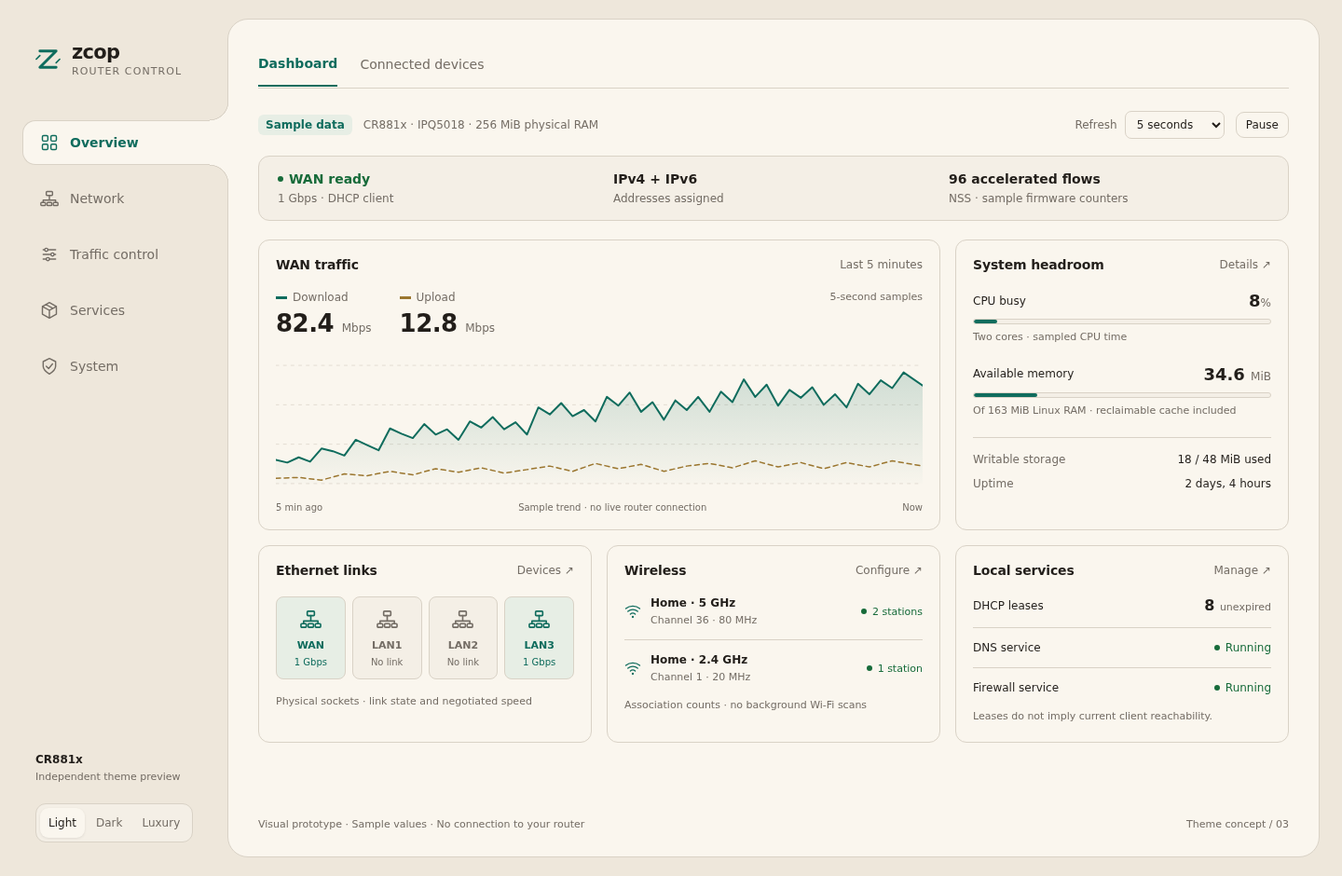
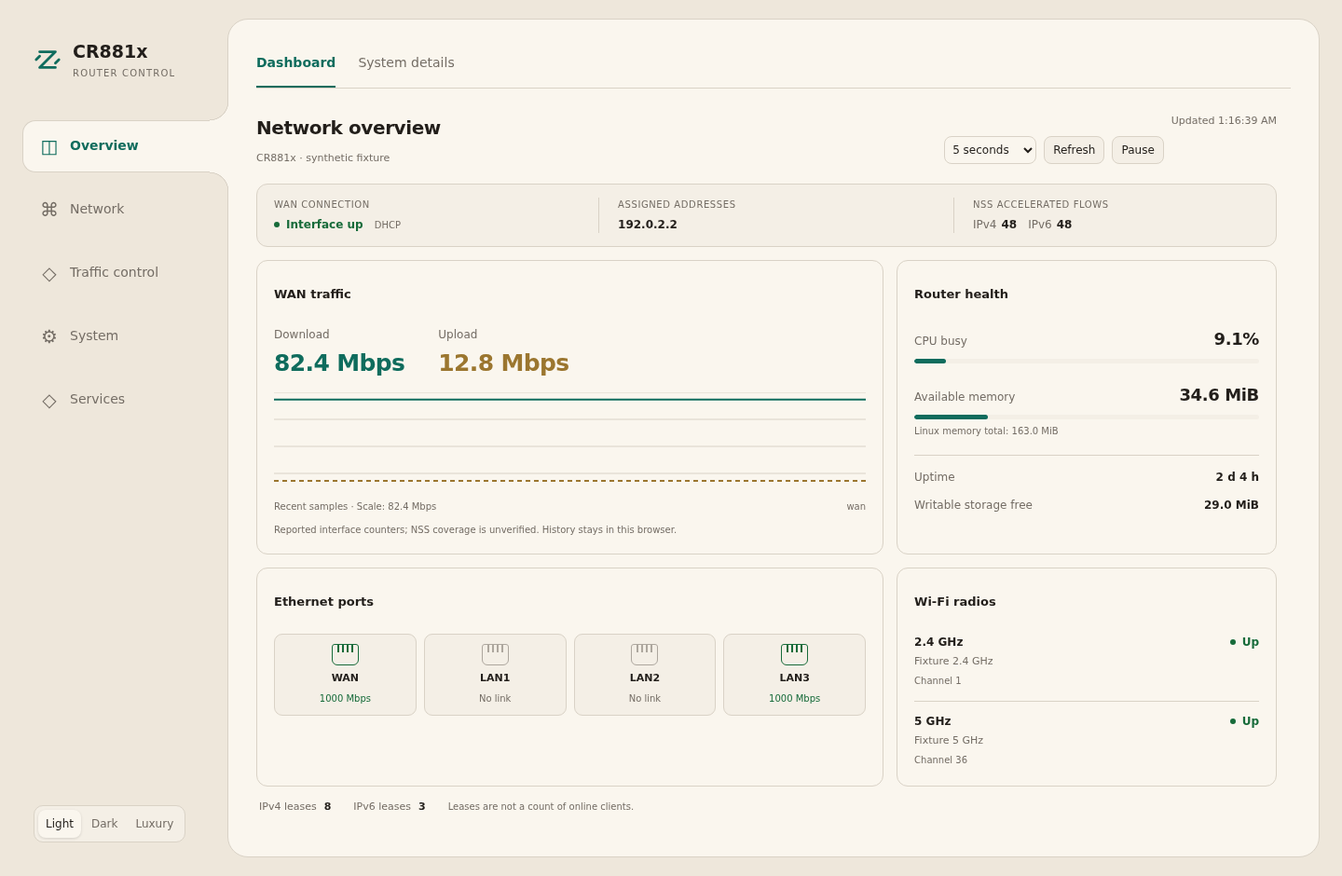
luci-app-zcop-dashboard: simplify the network overview

diff --git a/luci-app-zcop-dashboard/htdocs/luci-static/resources/view/zcop/dashboard.js b/luci-app-zcop-dashboard/htdocs/luci-static/resources/view/zcop/dashboard.js
@@ -18,7 +18,20 @@ const read = rpc.declare({ object: 'file', method: 'read', params: ['path'], exp
 const number = n => Number.isFinite(n) ? n.toFixed(1) : '—';
 const mib = n => Number.isFinite(n) ? number(n / 1048576) + ' MiB' : '—';
 function pair(label, value) { return E('div', { 'class': 'zc-datum' }, [E('span', {}, label), E('strong', {}, value)]); }
-function widget(title, content) { return E('section', { 'class': 'zc-widget' }, [E('h3', {}, title), ...content]); }
+function widget(title, content, kind) { return E('section', { 'class': 'zc-widget zc-' + kind }, [E('h3', {}, title), ...content]); }
+function status(text, tone) { return E('span', { 'class': 'zc-state zc-state-' + (tone || 'neutral') }, text); }
+function gauge(label, value, percent, detail) {
+ return E('div', { 'class': 'zc-gauge' }, [pair(label, value),
+  E('div', { 'class': 'zc-gauge-track', 'aria-hidden': 'true' }, Number.isFinite(percent)
+   ? [E('span', { style: 'width:' + Math.max(0, Math.min(100, percent)) + '%' })] : []),
+  detail ? E('p', { 'class': 'zc-note' }, detail) : null]);
+}
+function uptime(seconds) {
+ if (!Number.isFinite(seconds) || seconds < 0) return '—';
+ const days = Math.floor(seconds / 86400), hours = Math.floor(seconds / 3600) % 24;
+ return days ? days + ' ' + _('d') + ' ' + hours + ' ' + _('h')
+  : hours + ' ' + _('h') + ' ' + Math.floor(seconds / 60) % 60 + ' ' + _('min');
+}
 
 return view.extend({
  load() { return L.resolveDefault(board(), {}); },
@@ -51,8 +64,11 @@ return view.extend({
   } }, [E('option', { value: '5000' }, _('5 seconds')), E('option', { value: '10000' }, _('10 seconds')), E('option', { value: '0' }, _('Manual'))]);
   const root = E('div', { 'class': 'zc-dashboard' }, [
    E('h2', { 'class': 'zcop-sr-only' }, _('Dashboard')),
-   E('div', { 'class': 'zc-dashboard-meta' }, [E('span', {}, identity.model || identity.hostname || _('Router')), this.status, cadence,
-    E('button', { 'type': 'button', 'class': 'btn', 'click': () => this.scheduler.refresh() }, _('Refresh')), pause]),
+   E('div', { 'class': 'zc-dashboard-meta' }, [
+    E('div', { 'class': 'zc-dashboard-title' }, [E('h3', {}, _('Network overview')),
+     E('span', {}, identity.model || identity.hostname || _('Router'))]),
+    E('div', { 'class': 'zc-dashboard-controls' }, [this.status, cadence,
+     E('button', { 'type': 'button', 'class': 'btn', 'click': () => this.scheduler.refresh() }, _('Refresh')), pause])]),
    this.body
   ]);
   this.onVisibility = () => this.scheduler.visibility(document.hidden);
@@ -121,35 +137,62 @@ return view.extend({
    this.history = metrics.append(this.history, this.traffic);
    this.wanBaseline = next; this.wanTime = state.wan.time;
   } else if (!wan?.up || !wanSample || wanSample.device !== wan.l3_device) { this.traffic = null; this.wanBaseline = null; }
+  const peak = Math.max(1, ...this.history.filter(Boolean).flatMap(sample => [sample.down, sample.up]));
   const traffic = widget(_('WAN traffic'), [
    E('div', { 'class': 'zc-traffic-values' }, [pair(_('Download'), number(this.traffic?.down) + ' Mbps'), pair(_('Upload'), number(this.traffic?.up) + ' Mbps')]),
-   this.chart(), E('p', { 'class': 'zc-note' }, _('Reported interface counters · NSS coverage not yet validated. No persistent history.'))
-  ]);
-  traffic.classList.add('zc-traffic');
-  const system = widget(_('System headroom'), [
-   pair(_('CPU busy'), number(this.cpuBusy) + '%'),
-   pair(_('Available memory'), mib(memory.available)),
-   E('p', { 'class': 'zc-note' }, _('Linux memory total') + ': ' + mib(memory.total)),
-   pair(_('Uptime'), Number.isFinite(current('system')?.uptime) ? Math.floor(current('system').uptime / 3600) + ' h' : '—'),
-   pair(_('Writable storage free'), this.storage(current('mounts')))
-  ]);
-  const links = Object.entries(current('devices') || {}).filter(([name]) => /^(lan\d+|wan\d*)$/.test(name));
-  const ports = widget(_('Ethernet links'), links.length ? links.map(([name, data]) => pair(name.toUpperCase(),
-   data.link?.carrier ? (data.link.speed > 0 ? data.link.speed + ' Mbps' : _('Link up')) : _('No link'))) : [E('p', {}, _('No port status available'))]);
+   this.chart(),
+   E('div', { 'class': 'zc-chart-caption' }, [E('span', {}, _('Recent samples') + ' · ' + _('Scale') + ': ' + number(peak) + ' Mbps'),
+    E('span', {}, wan?.l3_device || _('No WAN device'))]),
+   E('p', { 'class': 'zc-note' }, _('Reported interface counters; NSS coverage is unverified. History stays in this browser.'))
+  ], 'traffic');
+  const system = widget(_('Router health'), [
+   gauge(_('CPU busy'), number(this.cpuBusy) + '%', this.cpuBusy),
+   gauge(_('Available memory'), mib(memory.available), memory.total > 0 && Number.isFinite(memory.available)
+    ? memory.available / memory.total * 100 : null, _('Linux memory total') + ': ' + mib(memory.total)),
+   E('div', { 'class': 'zc-system-details' }, [pair(_('Uptime'), uptime(current('system')?.uptime)),
+    pair(_('Writable storage free'), this.storage(current('mounts')))])
+  ], 'system');
+  const links = Object.entries(current('devices') || {}).filter(([name]) => /^(lan\d+|wan\d*)$/.test(name))
+   .sort(([a], [b]) => Number(b.startsWith('wan')) - Number(a.startsWith('wan')) || a.localeCompare(b, undefined, { numeric: true }));
+  const ports = widget(_('Ethernet ports'), [links.length ? E('div', { 'class': 'zc-ports' }, links.map(([name, data]) => {
+   const carrier = data.link?.carrier;
+   const up = carrier === true, down = carrier === false;
+   return E('div', { 'class': 'zc-port' + (up ? ' zc-port-up' : '') }, [
+    E('span', { 'class': 'zc-port-socket', 'aria-hidden': 'true' }, [E('i'), E('i'), E('i'), E('i')]),
+    E('strong', {}, name.toUpperCase()),
+    E('span', {}, up ? (data.link.speed > 0 ? data.link.speed + ' Mbps' : _('Link up')) : down ? _('No link') : _('Unavailable'))]);
+  })) : E('p', { 'class': 'zc-note' }, _('No port status available'))], 'ethernet');
   const radios = Object.entries(current('wireless') || {});
-  const wifi = widget(_('Wireless'), radios.length ? radios.map(([name, data]) => {
+  const wifi = widget(_('Wi-Fi radios'), radios.length ? radios.map(([name, data]) => {
    const names = (data.interfaces || []).map(iface => iface.config?.ssid).filter(Boolean);
    const channel = data.iwinfo?.channel;
-   return pair(name + (names.length ? ' · ' + names.join(', ') : ''), data.up ? _('Up') + (channel ? ' · ' + _('Channel') + ' ' + channel : '') : _('Down'));
-  }) : [E('p', {}, _('No radio status available'))]);
+   const frequency = data.iwinfo?.frequency;
+   const band = { '2g': '2.4 GHz', '5g': '5 GHz', '6g': '6 GHz' }[data.config?.band]
+    || (frequency >= 5925 ? '6 GHz' : frequency >= 4900 ? '5 GHz' : frequency >= 2400 ? '2.4 GHz' : name);
+   const disabled = data.disabled === true || data.config?.disabled === true || data.config?.disabled === '1';
+   const text = disabled ? _('Disabled') : data.up === true ? _('Up') : data.up === false ? _('Down') : _('Unavailable');
+   return E('div', { 'class': 'zc-radio' }, [
+    E('div', { 'class': 'zc-radio-heading' }, [E('strong', {}, band), status(text, !disabled && data.up === true ? 'up' : 'neutral')]),
+    E('p', {}, names.length ? names.join(' · ') : name),
+    data.up === true && channel ? E('span', { 'class': 'zc-note' }, _('Channel') + ' ' + channel) : null]);
+  }) : [E('p', { 'class': 'zc-note' }, _('No radio status available'))], 'wireless');
   const dhcp = current('leases');
-  const local = widget(_('Local network'), [pair(_('IPv4 leases'), dhcp ? String(dhcp.dhcp_leases?.length || 0) : '—'),
-   pair(_('IPv6 leases'), dhcp ? String(dhcp.dhcp6_leases?.length || 0) : '—'),
-   E('p', { 'class': 'zc-note' }, _('Leases are not a count of online clients.'))]);
+  const local = E('div', { 'class': 'zc-network-footer' }, [
+   pair(_('IPv4 leases'), Array.isArray(dhcp?.dhcp_leases) ? String(dhcp.dhcp_leases.length) : '—'),
+   pair(_('IPv6 leases'), Array.isArray(dhcp?.dhcp6_leases) ? String(dhcp.dhcp6_leases.length) : '—'),
+   E('span', { 'class': 'zc-note' }, _('Leases are not a count of online clients.'))]);
   const nss4 = metrics.count(current('nss4')), nss6 = metrics.count(current('nss6'));
-  const connection = widget(_('Connection'), [pair(_('WAN'), wan ? (wan.up ? _('Ready') : _('Down')) + ' · ' + (wan.proto || '—') : _('Unavailable')),
-   pair(_('Accelerated flows · IPv4'), nss4 === null ? _('Unavailable') : String(nss4)), pair(_('Accelerated flows · IPv6'), nss6 === null ? _('Unavailable') : String(nss6)),
-   E('p', { 'class': 'zc-note' }, _('WAN ready means interface configured; no Internet probe runs.'))]);
+  const addresses = (wan?.['ipv4-address'] || []).concat(wan?.['ipv6-address'] || []).map(a => a.address).filter(Boolean);
+  const connection = E('section', { 'class': 'zc-connection', 'aria-label': _('Connection summary') }, [
+   E('div', {}, [E('span', { 'class': 'zc-eyebrow' }, _('WAN connection')),
+    status(wan ? (wan.up === true ? _('Interface up') : wan.up === false ? _('Interface down') : _('Unavailable'))
+     : current('interfaces') ? _('Not configured') : _('Unavailable'), wan?.up === true ? 'up' : 'neutral'),
+    E('span', { 'class': 'zc-note' }, wan?.proto ? wan.proto.toUpperCase() : '—')]),
+   E('div', { 'class': 'zc-addresses' }, [E('span', { 'class': 'zc-eyebrow' }, _('Assigned addresses')),
+    E('strong', {}, addresses.length ? addresses.join(' · ') : '—')]),
+   E('div', { 'class': 'zc-acceleration', title: _('Active ECM flows; zero can be normal when idle.') }, [E('span', { 'class': 'zc-eyebrow' }, _('NSS accelerated flows')),
+    pair(_('IPv4'), nss4 === null ? _('Unavailable') : String(nss4)),
+    pair(_('IPv6'), nss6 === null ? _('Unavailable') : String(nss6))])]);
   this.body.replaceChildren(connection, traffic, system, ports, wifi, local);
  },
 
@@ -161,6 +204,7 @@ return view.extend({
   const ns = 'http://www.w3.org/2000/svg';
   const svg = document.createElementNS(ns, 'svg');
   svg.setAttribute('viewBox', '0 0 600 150'); svg.setAttribute('class', 'zc-chart');
+  svg.setAttribute('preserveAspectRatio', 'none');
   svg.setAttribute('role', 'img'); svg.setAttribute('aria-label', _('Recent WAN download and upload samples'));
   const samples = this.history;
   const max = Math.max(1, ...samples.filter(Boolean).flatMap(s => [s.down, s.up]));

diff --git a/luci-app-zcop-dashboard/htdocs/luci-static/resources/zcop/dashboard.css b/luci-app-zcop-dashboard/htdocs/luci-static/resources/zcop/dashboard.css
@@ -1,3 +1,50 @@
-.zc-dashboard-meta{display:flex;gap:12px;align-items:center;flex-wrap:wrap;margin-bottom:20px;font-size:12px;color:var(--zc-muted)}.zc-refresh-status{margin-left:auto}.zc-dashboard-meta select{width:auto;min-width:0}.zc-dashboard-meta button{padding:6px 10px}.zc-dashboard-grid{display:grid;grid-template-columns:repeat(3,minmax(0,1fr));gap:16px}.zc-widget{min-width:0;padding:18px;border:1px solid var(--zc-line);border-radius:12px;background:var(--zc-surface)}.zc-widget h3{margin:0 0 18px!important;font-size:14px!important;font-weight:650}.zc-widget:first-child{grid-column:1/-1;display:flex;gap:24px;align-items:center;flex-wrap:wrap}.zc-widget:first-child h3{margin:0!important}.zc-widget:first-child .zc-note{margin:0 0 0 auto}.zc-traffic{grid-column:span 2}.zc-datum{display:flex;justify-content:space-between;gap:12px;font-size:12px;align-items:baseline}.zc-datum+.zc-datum{margin-top:16px}.zc-datum span{color:var(--zc-muted)}.zc-datum strong{font-weight:600;overflow-wrap:anywhere;font-variant-numeric:tabular-nums}.zc-note{font-size:11px;line-height:1.6;color:var(--zc-muted);margin:12px 0 0}.zc-traffic-values{display:flex;gap:30px}.zc-traffic-values .zc-datum{display:grid;gap:4px;margin:0}.zc-traffic-values strong{font-size:22px}.zc-traffic-values .zc-datum:first-child strong{color:var(--zc-accent)}.zc-traffic-values .zc-datum:nth-child(2) strong{color:var(--zc-upload)}.zc-chart{width:100%;height:150px;display:block;margin-top:12px;background:repeating-linear-gradient(to top,transparent 0,transparent 36px,var(--zc-line) 37px,transparent 38px)}.zc-chart path{fill:none;stroke-width:2;vector-effect:non-scaling-stroke}.zc-chart .down{stroke:var(--zc-accent)}.zc-chart .up{stroke:var(--zc-upload);stroke-dasharray:5 4}
-.zc-widget:first-child .zc-datum{margin:0}.zc-traffic-values .zc-datum strong{color:var(--zc-accent)}.zc-traffic-values .zc-datum:nth-child(2) strong{color:var(--zc-upload)}
-@media(max-width:1050px){.zc-dashboard-grid{grid-template-columns:repeat(2,minmax(0,1fr))}.zc-traffic{grid-column:1/-1}}@media(max-width:720px){.zc-dashboard-grid{grid-template-columns:minmax(0,1fr);gap:12px}.zc-widget{padding:14px}.zc-widget:first-child{display:block}.zc-widget:first-child h3{margin-bottom:16px!important}.zc-widget:first-child .zc-note{margin-top:12px}.zc-widget:first-child .zc-datum+.zc-datum{margin-top:16px}.zc-traffic-values{gap:20px}.zc-dashboard-meta{gap:8px}.zc-refresh-status{margin-left:0;flex-basis:100%}}
+/* SPDX-License-Identifier: Apache-2.0 */
+.zc-dashboard{container-type:inline-size}
+.zc-dashboard-meta{display:flex;gap:16px;align-items:center;justify-content:space-between;flex-wrap:wrap;margin-bottom:18px}
+.zc-dashboard-title{min-width:0;overflow-wrap:anywhere}
+.zc-dashboard-title h3{margin:0 0 3px!important;font-size:20px!important;letter-spacing:-.02em}
+.zc-dashboard-title>span,.zc-refresh-status{font-size:11px;color:var(--zc-muted)}
+.zc-dashboard-controls{display:flex;gap:8px;align-items:center;flex-wrap:wrap;max-width:100%}
+.zc-dashboard-controls select{width:auto;min-width:0;max-width:100%;font-size:12px}
+.zc-dashboard-controls button{padding:5px 9px;font-size:12px}
+.zc-refresh-status{flex-basis:100%;text-align:right}
+.zc-dashboard-grid{display:grid;grid-template-columns:minmax(0,1.65fr) minmax(240px,1fr);gap:14px}
+.zc-connection{grid-column:1/-1;display:grid;grid-template-columns:1fr 1.1fr 1fr;gap:20px;padding:14px 18px;border:1px solid var(--zc-line);border-radius:12px;background:var(--zc-inset)}
+.zc-connection>div{min-width:0;display:flex;align-content:start;align-items:center;flex-wrap:wrap;gap:5px 12px}
+.zc-connection>div+div{border-left:1px solid var(--zc-line);padding-left:20px}
+.zc-eyebrow{display:block;width:100%;font-size:10px;text-transform:uppercase;letter-spacing:.06em;color:var(--zc-muted)}
+.zc-addresses strong{font-size:12px;font-weight:550;overflow-wrap:anywhere}
+.zc-state{display:inline-flex;align-items:center;gap:7px;font-size:12px;font-weight:600;white-space:nowrap;color:var(--zc-muted)}
+.zc-state:before{content:"";width:6px;height:6px;flex-shrink:0;border-radius:50%;background:currentColor;opacity:.65}
+.zc-state-up{color:var(--zc-good)}.zc-state-up:before{opacity:1}
+.zc-widget{min-width:0;padding:18px;border:1px solid var(--zc-line);border-radius:12px;background:var(--zc-surface)}
+.zc-widget h3{margin:0 0 16px!important;font-size:13px!important;font-weight:650}
+.zc-datum{display:flex;justify-content:space-between;gap:12px;font-size:12px;align-items:baseline;min-width:0}
+.zc-datum+.zc-datum{margin-top:12px}.zc-datum>span{color:var(--zc-muted)}
+.zc-datum strong{font-weight:600;overflow-wrap:anywhere;font-variant-numeric:tabular-nums}
+.zc-note{font-size:10px;line-height:1.5;color:var(--zc-muted);margin:10px 0 0}
+.zc-connection .zc-note,.zc-connection .zc-datum{margin:0}.zc-acceleration .zc-datum{gap:5px}
+.zc-traffic-values{display:flex;gap:36px}
+.zc-traffic-values .zc-datum{display:grid;gap:3px;margin:0}.zc-traffic-values strong{font-size:25px;letter-spacing:-.025em}
+.zc-traffic-values .zc-datum:first-child strong{color:var(--zc-accent)}
+.zc-traffic-values .zc-datum:nth-child(2) strong{color:var(--zc-upload)}
+.zc-chart{width:100%;height:115px;display:block;margin-top:12px;background:repeating-linear-gradient(to top,transparent 0,transparent 27px,var(--zc-line) 28px,transparent 29px)}
+.zc-chart path{fill:none;stroke-width:2;vector-effect:non-scaling-stroke}
+.zc-chart .down{stroke:var(--zc-accent)}.zc-chart .up{stroke:var(--zc-upload);stroke-dasharray:5 4}
+.zc-chart-caption{display:flex;justify-content:space-between;gap:12px;font-size:10px;color:var(--zc-muted);overflow-wrap:anywhere}
+.zc-gauge+.zc-gauge{margin-top:20px}.zc-gauge .zc-datum strong{font-size:18px;letter-spacing:-.02em}
+.zc-gauge-track{height:5px;margin-top:8px;border-radius:4px;background:var(--zc-inset);overflow:hidden}
+.zc-gauge-track>span{display:block;height:100%;border-radius:inherit;background:var(--zc-accent)}
+.zc-gauge .zc-note{margin-top:5px}.zc-system-details{border-top:1px solid var(--zc-line);margin-top:18px;padding-top:14px}
+.zc-ports{display:grid;grid-template-columns:repeat(4,minmax(0,1fr));gap:8px}
+.zc-port{min-width:0;display:flex;flex-direction:column;align-items:center;gap:6px;padding:10px 4px;background:var(--zc-inset);border:1px solid var(--zc-line);border-radius:9px;color:var(--zc-muted)}
+.zc-port>strong{font-size:11px;font-weight:600;color:var(--zc-text)}.zc-port>span:last-child{font-size:10px;text-align:center}
+.zc-port-socket{display:flex;justify-content:center;gap:3px;width:29px;height:23px;border:1.5px solid currentColor;border-radius:3px 3px 6px 6px;padding:0 4px 7px;opacity:.55}
+.zc-port-socket i{width:2px;height:8px;display:block;background:currentColor}.zc-port-up{color:var(--zc-good)}.zc-port-up .zc-port-socket{opacity:1}
+.zc-radio+.zc-radio{margin-top:12px;border-top:1px solid var(--zc-line);padding-top:12px}
+.zc-radio-heading{display:flex;justify-content:space-between;align-items:center;gap:12px;font-size:12px}
+.zc-radio>p{margin:3px 0 0;font-size:11px;color:var(--zc-muted);overflow-wrap:anywhere}.zc-radio>.zc-note{margin:0}
+.zc-network-footer{grid-column:1/-1;display:flex;gap:12px 24px;align-items:center;flex-wrap:wrap;padding:0 3px}
+.zc-network-footer .zc-datum,.zc-network-footer .zc-note{margin:0}.zc-network-footer .zc-datum{gap:8px;font-size:11px}
+@container(max-width:720px){.zc-dashboard-grid{grid-template-columns:minmax(0,1fr)}.zc-connection{gap:12px;padding:14px}.zc-connection>div+div{padding-left:12px}.zc-dashboard-meta{gap:10px}.zc-dashboard-controls{justify-content:flex-start}.zc-refresh-status{text-align:left}}
+@container(max-width:440px){.zc-connection{grid-template-columns:minmax(0,1fr);gap:10px}.zc-connection>div+div{border-left:0;border-top:1px solid var(--zc-line);padding:10px 0 0}.zc-eyebrow{width:auto;margin-right:auto}.zc-addresses{justify-content:space-between}.zc-addresses strong{max-width:100%}.zc-dashboard-controls{gap:6px}.zc-widget{padding:14px}.zc-ports{grid-template-columns:repeat(2,minmax(0,1fr))}.zc-traffic-values{gap:24px}.zc-traffic-values strong{font-size:23px}.zc-chart{height:110px}}

diff --git a/docs/dashboard-design.md b/docs/dashboard-design.md
@@ -1,86 +1,78 @@
-# Lightweight dashboard design, revision 03
+# Lightweight network overview, revision 04
 
-The approved visual prototype is in `preview/index.html`. Its data is
-illustrative and its controls never start live collection. The separate
-`luci-app-zcop-dashboard` package reads live authenticated LuCI RPC snapshots.
-This document records the design target; the README distinguishes the initial
-live widgets from the more detailed static preview.
+The dashboard is a separate read-only LuCI application with its own presentation
+and existing authenticated RPC data. The theme supplies the stable frame,
+connected sidebar and palettes. Other administration pages remain LuCI pages.
 
-## Default view
+## Information hierarchy
 
-- Connection summary: WAN link/protocol, assigned address families, optional
-  accelerated-flow count when the required counter source exists.
-- One WAN traffic plot, download and upload, with at most 60 samples at the
-  default five-second interval. History starts when the page opens.
-- CPU time usage, Linux available memory, writable overlay space and uptime.
-- Four physical Ethernet sockets, link state and negotiated speed.
-- Two radio summaries and associated station counts.
-- DHCP lease count and basic DNS/firewall service state.
+The design takes the at-a-glance overview from [OPNsense's dashboard](https://docs.opnsense.org/manual/dashboard.html)
+and the summary/detail distinction from [Fortinet's dashboard documentation](https://docs.fortinet.com/document/fortigate/latest/administration-guide/345190/dashboards-and-monitors).
+For a home router, it uses this fixed arrangement:
 
-The selected sidebar area owns the main frame. The command row names the page
-once. Configuration and detailed evidence are reached through existing pages,
-not duplicated inside every dashboard card. Other LuCI pages remain available.
+1. A compact connection strip: WAN interface state, protocol, assigned addresses
+   and optional active ECM accelerated-flow counts.
+2. WAN traffic: one download/upload plot with visible values and an automatic
+   scale. Recent numeric samples stay in the browser.
+3. Router health: CPU busy and Linux MemAvailable, with uptime and writable
+   storage as secondary rows. No separate disk, memory or CPU charts.
+4. Ethernet ports and Wi-Fi radios: link/speed per socket; radio state, SSID and
+   current channel when reported. Lease counts sit in a small footer.
 
-## Live integration budget
+Traffic and health share the first row, and ports and radios share the second.
+CSS container queries stack panels when the available content frame is narrow.
+The existing sidebar and top menu remain fixed. There is no widget editor,
+drag/resize library, live event feed, traffic classification or client inventory.
 
-This is an implementation target, not a measured guarantee of router cost.
+The screenshots in this directory exercise the actual application against
+clearly marked synthetic RPC fixtures. `preview/index.html` remains the original,
+more detailed static concept; its illustrative features are not a live feature
+list and it never connects to a router.
 
-| Data | Target refresh while visible | Source and limits |
+## Data and router budget
+
+The redesign reuses the existing collector, scheduler, RPC methods and ACLs.
+It adds no router daemon, polling source, scan, probe, shell command, flow dump,
+history database or runtime dependency. There is one collector in flight.
+
+| Snapshot | Refresh while visible | Source |
 | --- | --- | --- |
-| WAN byte counters | 5 seconds, selectable 10 seconds or manual | Read only the selected WAN accounting layer; derive deltas in the browser. |
-| System headroom | 15 seconds | Existing system info for memory/uptime; CPU percentage requires CPU-time deltas, not load average. Cache board/version information after initial load. |
-| Link/protocol state | 15 seconds | Netifd/device status; reuse existing LuCI RPC sources. |
-| NSS summary | 15 seconds, only when supported | Compact accelerated-count/counter read; no ECM connection dump. |
-| Radio association and leases | 30 seconds | Existing iwinfo/netifd and lease summaries, bounded responses; no scans or reachability probes. |
-| Overlay and service state | 60 seconds | Small status read; no package enumeration or log dump. |
+| WAN byte counters | 5 seconds, selectable 10 seconds or manual | Selected WAN L3 device status |
+| Memory, uptime, CPU time and link state | 15 seconds | system.info, /proc/stat, interface/device summaries |
+| Radio state and DHCP leases | 30 seconds | Existing luci-rpc summaries; no station dump or scan |
+| Optional accelerated-flow counts | 30 seconds | Two bounded debugfs scalar reads |
+| Writable storage | 60 seconds | Existing mount summary |
 
-The current feed's `getCPUUsage` implementation launches `top` piped into
-`awk` (`feeds/luci/modules/luci-base/root/usr/share/rpcd/ucode/luci`). Do not
-reuse that command every refresh. Read a compact `/proc/stat` snapshot via a
-bounded authenticated RPC and calculate CPU-time deltas in the browser.
-There must be no sampling sleep or long-running process in the RPC handler.
+Pause collection when hidden, leaving the page or explicitly paused. A request
+already in flight can finish. Failed collection backs off. Numeric traffic
+history is limited to 60 samples in the browser; no persistent history is kept.
+CPU percentage comes from deltas of /proc/stat, without invoking top or sleeping.
 
-Use a single browser scheduler to batch due calls, one request batch in flight
-at a time, with timeout and failure backoff. Pause scheduled reads when hidden,
-when leaving the dashboard and when explicitly paused. On return, refresh a
-snapshot before calculating rates. Requests already in flight may complete.
-Do not fill a long hidden interval with invented samples. Clear the rate
-baseline on reboot, interface replacement, counter reset or changed WAN.
+## Status semantics
 
-Reuse rpcd/uhttpd. No additional daemon, shell polling loop, chart library,
-SQLite, RRD, collectd or persistent traffic history. The bounded numeric sample
-buffer resides in the viewing browser, not in the router's RAM or flash.
+- **Interface up** means the logical WAN interface reports up. It does not
+  establish gateway, DNS or Internet reachability. No probe runs automatically.
+- Physical Ethernet carrier is separate: absent carrier information shows
+  Unavailable; a reported false carrier shows No link.
+- A disabled radio is separate from a down radio or missing status. Band labels
+  come from reported band/frequency; names such as radio0 are the fallback.
+- Available memory uses Linux MemAvailable, alongside Linux MemTotal. Physical
+  RAM and reserved firmware memory are different quantities.
+- Missing lease lists show unavailable values; known empty lists show zero.
+  Leases are not a count of online clients.
+- NSS values are active ECM accelerated-flow counts. Zero is valid at idle;
+  missing/unsupported counters show Unavailable. There is no guessed enabled
+  badge based on module presence or a nonzero flow count.
+- Traffic uses reported interface counters. Complete NSS byte-accounting
+  coverage is still unverified and is labelled accordingly.
+- Failed data becomes unavailable/stale instead of silently keeping a healthy
+  status. Reboot, device change, counter reset and long gaps reset rate baselines.
 
-Slow/disabled widgets do not keep polling. Do not run speed tests, pings,
-Wi-Fi scans, per-flow conntrack/ECM dumps, packet capture, DPI or top-talker
-accounting as a dashboard side effect. Detailed diagnostics remain on demand.
+## Validation boundary
 
-## Accuracy requirements
-
-- WAN ready means link and address configuration; it does not assert that an
-  Internet probe passed. No automatic external probe is planned.
-- Verify byte counter coverage under NSS acceleration before showing rates as
-  total WAN traffic. Do not sum physical/conduit/VLAN/PPP counts for the same
-  packets. If coverage is uncertain, show that limitation or no total.
-- A loaded NSS module does not establish active acceleration. Show unsupported,
-  unknown or stale data honestly; do not replace unavailable values with zero.
-- Memory uses MemAvailable against Linux MemTotal, not raw MemFree or physical
-  RAM. Physical RAM and firmware reservations are distinct quantities.
-- DHCP leases are unexpired leases, not a count of online clients. Wi-Fi
-  associations are counted separately. Do not ARP-scan clients to make a badge.
-- DNS process state does not prove DNS replies; firewall service state does not
-  prove correctness of every rule. Labels must reflect the actual evidence.
-- Temperature is omitted where there is no validated sensor. CPU frequency and
-  firmware details belong in system details, not frequent dashboard polling.
-
-## Acceptance before live defaults
-
-Measure the built package size and browser assets. On the CR881x, compare idle
-without dashboard, one dashboard open, and a dashboard open during routed NSS
-traffic. Record CPU, MemAvailable, rpcd/uhttpd memory, refresh latency, error
-rate, and traffic counter accuracy. Confirm requests stop when hidden/paused,
-resume without spikes, and remain bounded with two viewing browsers. Reduce
-refresh cadence or remove a widget if there is a material regression.
-
-Current evidence is browser layout/interaction acceptance only. No router
-resource measurements or live dashboard data validation have been performed.
+Unit checks cover calculation and scheduling. Browser fixtures cover actual
+LuCI module exports, labels, unknown-versus-zero states, ACL-filtered navigation,
+three palettes, long forms and wide tables, and responsive frame behavior.
+Live rendering is checked separately on CR881x. Package/browser validation
+is not a completed production load comparison or complete accelerated-traffic
+accounting acceptance. See [validation.md](validation.md).

diff --git a/README.md b/README.md
@@ -15,12 +15,14 @@ inside the content frame.
 
 ![Dashboard design](docs/dashboard-light.png)
 
+Application rendered with synthetic test data; these are not live router values.
+
 ## Packages
 
 | Package | Purpose |
 | --- | --- |
 | `luci-theme-zcop` | Theme, connected sidebar, registered LuCI page menus, three browser-local palettes and mobile navigation. |
-| `luci-app-zcop-dashboard` | Optional read-only dashboard: interface traffic, CPU time, MemAvailable, overlay storage, ports, radio state, leases and optional NSS scalar counts. |
+| `luci-app-zcop-dashboard` | Optional read-only network overview: one traffic chart, router health, Ethernet ports and Wi-Fi radios, plus compact connection, lease and acceleration summaries. |
 
 The theme depends on `luci-theme-bootstrap` to preserve LuCI's established form,
 authentication, modal, save/apply and rollback contracts. No LuCI core patch or
@@ -78,6 +80,13 @@ The optional dashboard appears under **Overview → Dashboard**. Its navigation
 entry requires its read ACL. Other installed applications remain in their
 registered LuCI sections, with arbitrary deeper subpages retained. The theme
 does not rewrite application URLs or replace UCI configuration workflows.
+
+The dashboard uses its own presentation over existing authenticated LuCI RPC
+data. Its fixed layout adapts to the available frame width: connection state
+at the top, traffic and CPU/RAM below, then physical ports and radio state.
+Detailed configuration stays on the existing pages. Missing data is shown as
+unavailable; an interface being up does not claim Internet reachability, and
+lease counts do not claim that clients are online.
 
 ## Small-router defaults
 

diff --git a/docs/validation.md b/docs/validation.md
@@ -1,5 +1,32 @@
 # Validation
 
+## Network overview, 2026-11-12
+
+Dashboard version: 0.2.0-r1. Theme remains 0.1.3-r1.
+
+The dashboard now has a compact connection strip and four panels: WAN traffic,
+router health, Ethernet ports and Wi-Fi radios. DHCP lease counts are a footer.
+The presentation uses the existing RPC calls, ACLs, collector and scheduler;
+there are no added polling sources or router services.
+
+- Unit and actual-module browser checks pass. Existing serialized, hidden,
+  paused/manual and failure behavior remains covered. Container-based layouts
+  are exercised across the existing desktop/tablet/phone viewport checks.
+- Added fixture checks distinguish unknown links/radios and omitted lease
+  lists from disconnected/disabled states and known empty lists. Valid zero
+  accelerated-flow counts remain zero; unsupported counters remain unavailable.
+- The simplified preview screenshots render the actual dashboard module with
+  explicitly marked synthetic RPC data.
+- The build's CSSTidy 1.3 removes CSS container conditions and applies their
+  rules globally. CSS minification is disabled for this application to retain
+  its responsive rules; package compression still applies. Theme CSS and
+  JavaScript keep their existing build settings.
+
+A bounded third-party source review identified status-label pitfalls. Primary
+review implemented and checked the unknown-state changes; a returned review
+is not device acceptance. The existing production/accounting limits below
+continue to apply.
+
 ## Stable frame, 2026-11-12
 
 Theme version: 0.1.3-r1. Optional dashboard remains 0.1.1-r1.
